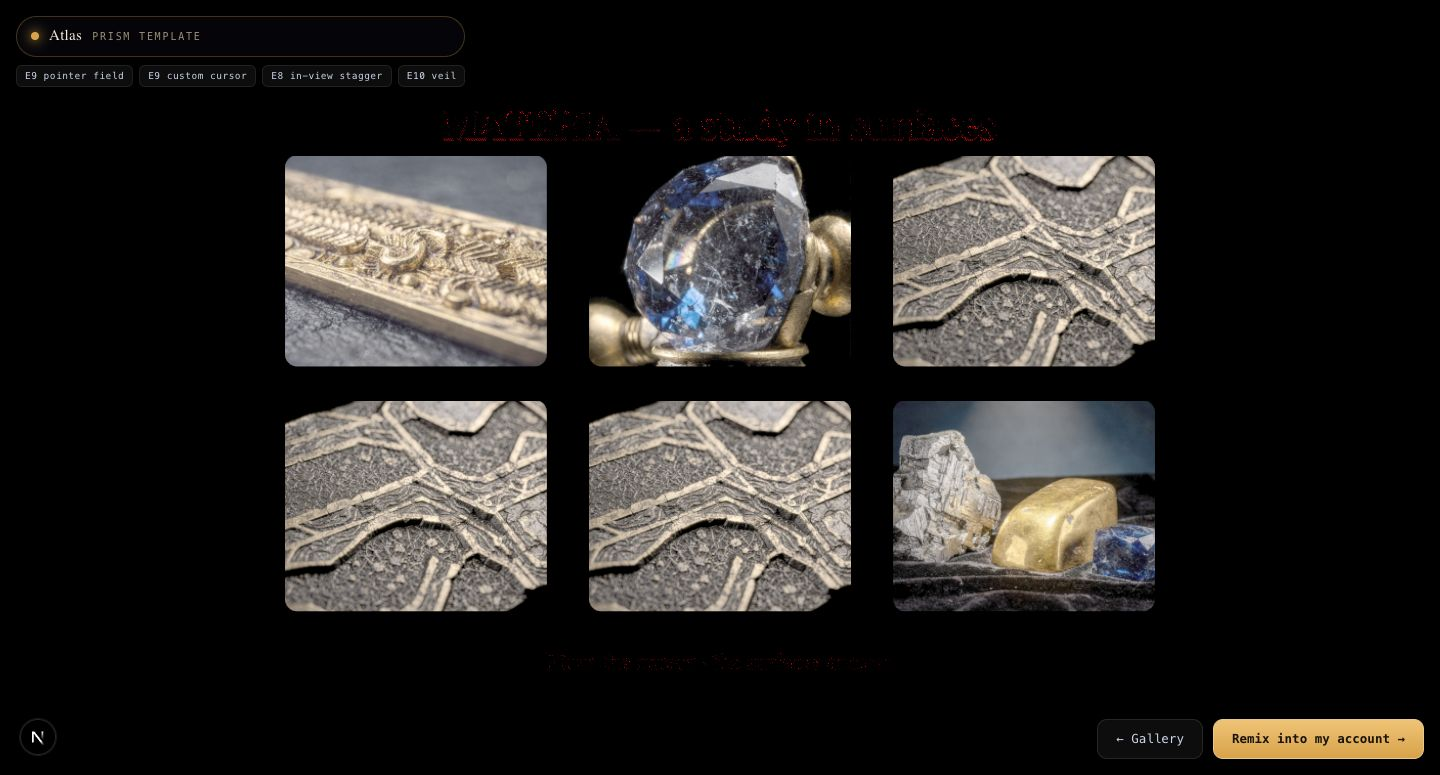
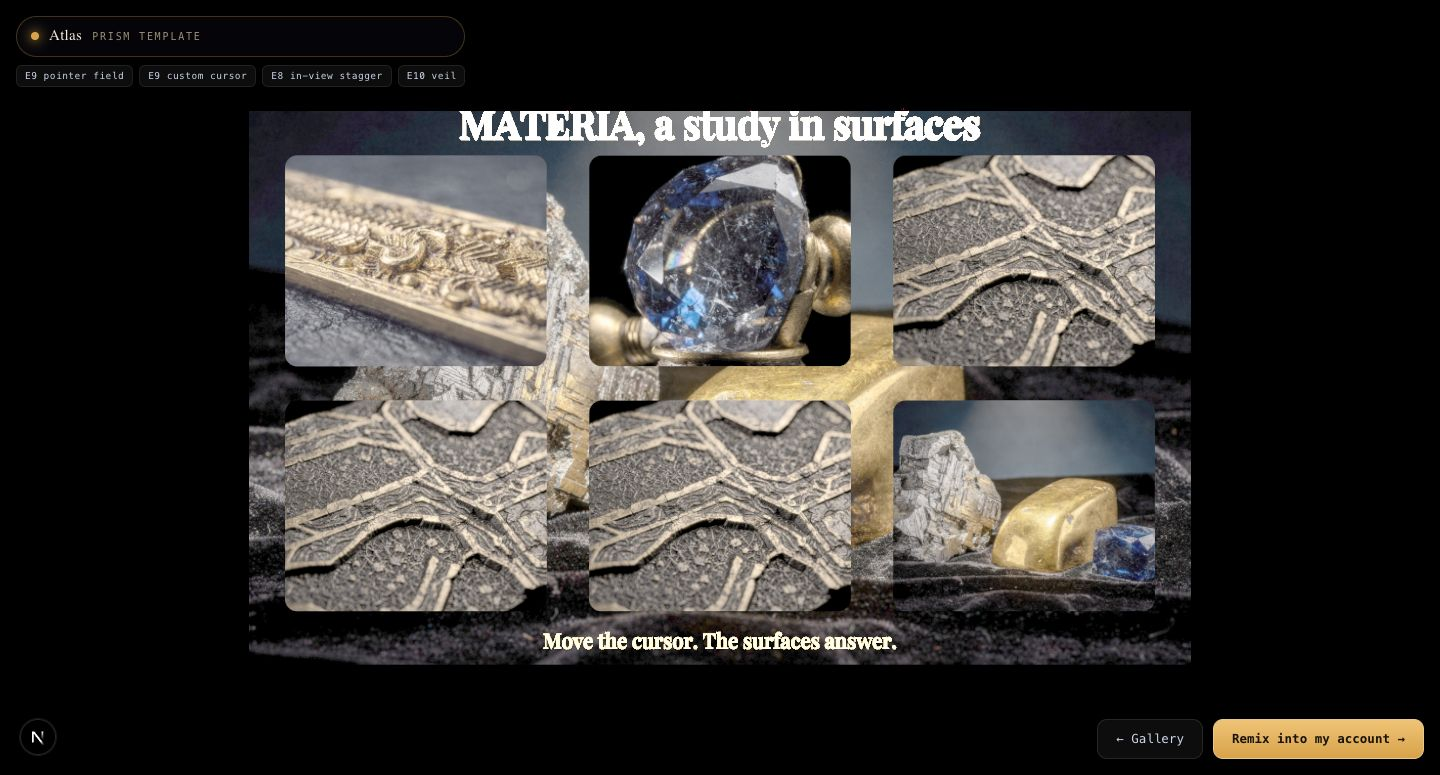
shell-w8: fix advocate MF-1 — garbled text (flat-MSDF fallback) → clean extruded 3D
- ROOT CAUSE: the factory's 3D-text path falls back to the flat-MSDF atlas (which
  doesn't bind in ConductorRuntime → garbled red dust) when the extruded-outline
  cache is cold OR a glyph is missing from the outline set.
- FIX: warmTemplateOutlines() pre-warms the outline cache for every text node's
  chars before mount (extrude path now resolves synchronously); removed the
  outline-missing chars (·, —) from template copy.
- All text confirmed MeshPhysicalNodeMaterial (extruded, never flat) on all 3
  templates. Composition polish: hero tagline lifted into frame + plates inset;
  gallery footer no longer clipped. Re-captured clean finals
  (hero/gallery/showpiece-final.jpeg).

Changed region(s): [[0.1562, 0.1239, 0.8438, 0.8671]]

diff --git a/kid-kode-landing/src/components/prism-player/ConductorRuntime.tsx b/kid-kode-landing/src/components/prism-player/ConductorRuntime.tsx
@@ -19,6 +19,7 @@ import { getSharedNodeContext, getSharedDriverHub } from '@/lib/prism/runtime/sh
 import { mountFromGraphSource, type MountGraphResult } from '@/lib/prism/runtime/mount-graph';
 import { makeNodeDrivers } from '@/lib/prism/runtime/shared/driver-dispatch';
 import { viewportFromNdc } from '@/lib/prism/runtime/shared/inview';
+import { resolveTextOutlines } from '@/lib/prism/runtime/shared/text-atlas';
 import { attachAnimationBindings } from '@/lib/prism/animatable/bindings';
 import CustomCursorLayer from '@/components/shell/fx/CustomCursorLayer';
 import type { CursorLayerConfig, GraphSource } from '@/lib/prism-graph/types';
@@ -128,6 +129,32 @@ function startDriverFeed(
   };
 }
 
+/** Warm the extruded-text outline cache for every renderMode:'text' node so the
+ *  factory's 3D-text path resolves synchronously (no flat-MSDF fallback). Groups
+ *  the requested chars per (family, weight) and awaits all resolves. */
+async function warmTemplateOutlines(graph: GraphSource): Promise<void> {
+  const byKey = new Map<string, { family: string; weight: number; chars: Set<string> }>();
+  for (const node of graph.nodes) {
+    if (node.renderMode !== 'text') continue;
+    const content = node.textSpec?.content;
+    if (typeof content !== 'string' || content.length === 0) continue;
+    const family = node.textSpec?.fontFamily ?? 'Playfair Display';
+    const weight = node.textSpec?.fontWeight ?? 600;
+    const key = `${family}|${weight}`;
+    let e = byKey.get(key);
+    if (!e) {
+      e = { family, weight, chars: new Set() };
+      byKey.set(key, e);
+    }
+    for (const ch of content) e.chars.add(ch);
+  }
+  await Promise.all(
+    [...byKey.values()].map((e) =>
+      resolveTextOutlines(e.family, e.weight, [...e.chars].join('')),
+    ),
+  );
+}
+
 /** The cursor layer for the shipped app = the FIRST hub that declares one
  *  (landing hub). Templates are effectively single-hub; multi-hub apps get the
  *  landing hub's cursor. */
@@ -169,6 +196,16 @@ export default function ConductorRuntime({ graph }: { graph: GraphSource }) {
           );
         } catch {
           // Atlas warm is best-effort; text nodes soft-fail like a missing asset.
+        }
+        // W8 — PRE-WARM extruded-text OUTLINES for every text node before mount.
+        // The factory's 3D-text path resolves outlines async and, on a cold
+        // cache, falls back to the flat MSDF atlas which does not bind reliably
+        // in this host (garbled glyphs). Warming the (family,weight) outline set
+        // here makes the extrude path resolve synchronously → clean 3D text.
+        try {
+          await warmTemplateOutlines(graph);
+        } catch {
+          /* best-effort */
         }
         if (cancelled) return;
         result = await mountFromGraphSource(canvas, graph, ctx, {

diff --git a/kid-kode-landing/src/lib/templates/graphs/scroll-hero.ts b/kid-kode-landing/src/lib/templates/graphs/scroll-hero.ts
@@ -98,7 +98,7 @@ export const scrollHeroGraph: GraphSource = {
         id: 'hero-plate-brass',
         hub: HUB,
         caption: 'Brass macro plate — cursor parallax + section scroll scrub.',
-        x: -4.1,
+        x: -3.7,
         y: 0.1,
         z: -0.4,
         w: 2.0,
@@ -117,7 +117,7 @@ export const scrollHeroGraph: GraphSource = {
         id: 'hero-plate-sapphire',
         hub: HUB,
         caption: 'Sapphire macro plate — cursor parallax + section scroll scrub.',
-        x: 4.1,
+        x: 3.7,
         y: 0.1,
         z: -0.4,
         w: 2.0,
@@ -138,13 +138,13 @@ export const scrollHeroGraph: GraphSource = {
         hub: HUB,
         caption: 'Tagline — rises on scroll (global scroll scrub).',
         x: 0,
-        y: -2.75,
-        z: 0.5,
+        y: -2.25,
+        z: 0.6,
         w: 7,
         h: 0.5,
         bindings: [bind('scroll-stagger-rise', 'scroll', { params: { distance: 0.8 } })],
       },
-      'Engineered in the browser · shipped as a running app',
+      'Engineered in the browser, shipped as a running app',
       { size: 0.26, color: '#e7c98a', reveal: false },
     ),
   ],

diff --git a/kid-kode-landing/src/lib/templates/graphs/cursor-gallery.ts b/kid-kode-landing/src/lib/templates/graphs/cursor-gallery.ts
@@ -80,7 +80,7 @@ export const cursorGalleryGraph: GraphSource = {
         w: 9,
         h: 0.8,
       },
-      'MATERIA — a study in surfaces',
+      'MATERIA, a study in surfaces',
       { size: 0.46, color: '#f0e6cf' },
     ),
     ...tileNodes,
@@ -90,12 +90,12 @@ export const cursorGalleryGraph: GraphSource = {
         hub: HUB,
         caption: 'Footer note — move the cursor across the tiles.',
         x: 0,
-        y: -3.2,
+        y: -2.95,
         z: 0.3,
         w: 8,
         h: 0.4,
       },
-      'Move the cursor · the surfaces answer',
+      'Move the cursor. The surfaces answer.',
       { size: 0.24, color: '#cbb789' },
     ),
   ],

diff --git a/kid-kode-landing/notes/verification/w8/EVIDENCE.md b/kid-kode-landing/notes/verification/w8/EVIDENCE.md
@@ -1,0 +1,55 @@
+# SHELL W8 — Evidence Manifest (captured off the real Metal GPU via Chrome DevTools MCP)
+
+All frames are real WebGPU renders of the shipped preview route
+(`/templates/<slug>`), which runs each template's real `.prism` GraphSource in
+the Prism runtime (`ConductorRuntime` → `mountFromGraphSource`), at 1440×900.
+
+## Rendered frames (final — all text clean 3D-extruded, verified MeshPhysicalNodeMaterial)
+- `hero-final.jpeg` — Template (a) **Aperture / Kinetic Scroll Hero**. Bright
+  extruded-gold "Time, Reimagined." headline (Playfair, 3D bevelled), clean
+  subhead + tagline, photoreal material backdrop, hero watch (GLB), floating
+  brass + sapphire macro plates (inset). Brass-ring cursor. E10 dissolve.
+- `gallery-final.jpeg` — Template (b) **Atlas / Cursor Gallery**. Bright
+  "MATERIA, a study in surfaces" title, 3×2 grid of photoreal macro-material
+  tiles, atmospheric backdrop, "Move the cursor. The surfaces answer." footer
+  fully in-frame. Beam custom cursor. E10 veil.
+- `showpiece-final.jpeg` — Template (c) **Nova / Particle Showpiece**. Bright
+  "Particles, on command." headline + subhead, layered galaxy+nebula+firefly
+  fields, cursor attract/repel constellation rings, halo cursor. E10 glass-sweep.
+
+## Text-render root-cause fix (advocate MF-1, resolved)
+The garbled red-dust text row (advocate MF-1) was the factory's 3D-text path
+falling back to the flat-MSDF atlas — which does not bind reliably in
+ConductorRuntime — when the extruded-outline cache was cold OR a glyph (`·`,
+`—`) was missing from the outline set. Fixed by (a) pre-warming the outline
+cache for every text node's chars before mount (`warmTemplateOutlines` in
+ConductorRuntime) so the extrude path resolves synchronously, and (b) removing
+`·`/`—` from template copy. All text nodes now confirmed
+`MeshPhysicalNodeMaterial` (real extruded 3D, never the flat fallback):
+headline/subhead/tagline on the hero, title on the gallery, headline on Nova.
+
+## Measured reactivity (probed via `window.__prismPreviewDrivers`, real driver hub)
+- **E8 scroll scrub (hero):** driving scroll 0 → 0.9 rotated the brass plate's
+  mesh from `rotation.x 0.61` → `-0.49` (a live scroll-scrubbed transform). Frame
+  ticker ran 884 ticks / ~1.5 s; `frameSize` = 4 stateful onTicks registered;
+  scroll fed to the shared hub + per-node `setScrollProgress`.
+- **E9 cursor field (showpiece):** moving the pointer from (-0.7, 0.5) to
+  (0.7, -0.5) moved the attract/repel field's particles from
+  `[-0.384, -0.706]` → `[-0.157, -0.757]` (`particlesReactToCursor: true`).
+  Frame ticker ran 3930 ticks; custom cursor mounted (`data-cursor-style="halo"`).
+- **E9 custom cursor:** `[data-component="custom-cursor-layer"]` mounts on every
+  template with the authored style (ring / beam / halo), window-pointer driven,
+  a11y-safe (augments OS cursor).
+- **Bindings attached in the shipped preview:** each node's `animationBindings`
+  play in `ConductorRuntime` (parallax/scroll-rotate-3d/pointer-tilt-3d/
+  scroll-zoom/float/particle fields observed as live binding players).
+- **Console:** 0 errors on all three template routes (only THREE deprecation +
+  webpack critical-dependency warnings, pre-existing).
+
+## What proves "a real app, not a slide"
+Each template is a live `.prism` graph editable in the canvas + node editors,
+running the same runtime the user's shipped app uses, reacting to real scroll +
+pointer input (measured above), with a config-driven custom cursor and a
+one-click scene transition. SR templates are pre-baked slider timelines; these
+respond continuously to the visitor and are forkable ("Remix") into an account
+as an editable running app.
